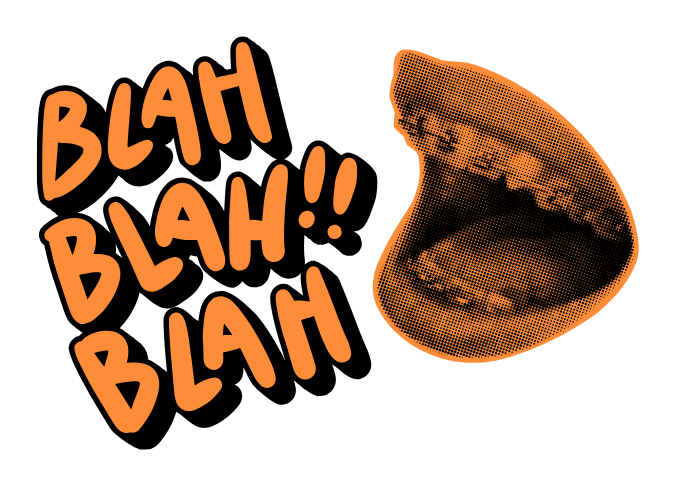
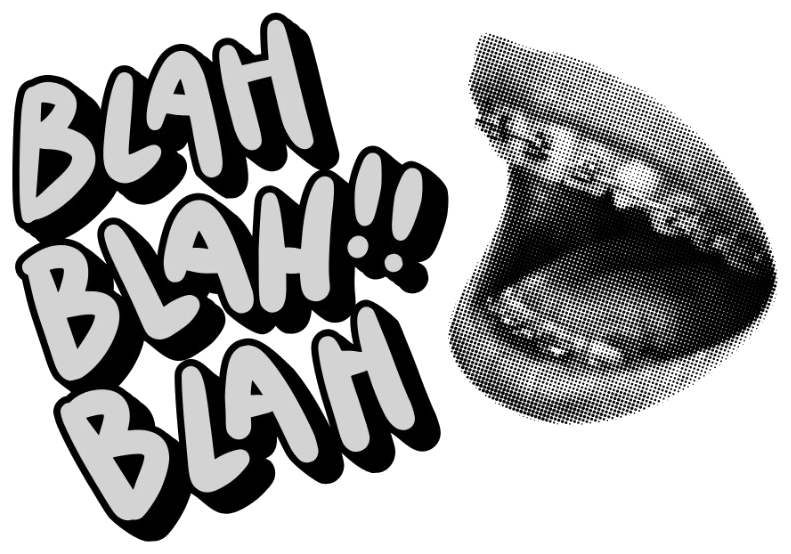
feat: allineamento layout e atmosfera visiva della homepage in base al riferimento di design

diff --git a/src/components/HomeHero.tsx b/src/components/HomeHero.tsx
@@ -8,7 +8,7 @@ const { cta, home } = siteContent;
 
 const titolo = home.titolo;
 const HERO_IMAGE = "/A.jpg";
-const HERO_BG = "#e85c12";
+const HERO_BG = "#111111";
 
 /** Pulsanti della Hero: più grandi solo da desktop (xl), invariati altrove. */
 const heroBtn = "w-full xl:px-12 xl:py-6 xl:text-sm xl:tracking-[0.2em] 2xl:px-14 2xl:py-7 2xl:text-base";
@@ -26,7 +26,7 @@ const riseIn: Variants = {
 };
 
 const spring = { type: "spring", stiffness: 280, damping: 22 } as const;
-const hoverGlow = { scale: 1.02, boxShadow: "0 0 24px rgba(249, 248, 246, 0.35)" };
+const hoverGlow = { scale: 1.02, boxShadow: "0 0 22px rgba(220, 220, 220, 0.22)" };
 const tapPress = { scale: 0.98 };
 
 /** Altezza sotto l’header fisso (`Layout`: pt-[80px] / xl:pt-[112px]). */
@@ -39,7 +39,7 @@ function HeroOrnament() {
       src="/linea-hero.svg"
       alt=""
       aria-hidden
-      className="mx-auto block h-[clamp(2.15rem,6.5vw,3.15rem)] w-auto max-w-[min(22rem,78%)] object-contain drop-shadow-[0_1px_10px_rgba(43,37,35,0.45)]"
+      className="mx-auto block h-[clamp(2.15rem,6.5vw,3.15rem)] w-auto max-w-[min(22rem,78%)] object-contain drop-shadow-[0_2px_8px_rgba(0,0,0,0.45)]"
     />
   );
 }
@@ -56,45 +56,48 @@ export function HomeHero() {
   return (
     <section
       data-home-hero
-      className="relative isolate overflow-hidden bg-ember text-black [--hh:80px] xl:[--hh:112px]"
+      className="relative isolate overflow-hidden bg-[#111111] text-on-ink [--hh:80px] xl:[--hh:112px]"
     >
       <motion.div
         className="absolute inset-x-0 -top-[18%] z-0 h-[140%] will-change-transform"
         style={reduce ? undefined : { y: bgY }}
         aria-hidden
       >
-        <ChromaticImage
-          src={HERO_IMAGE}
-          alt=""
-          backgroundColor={HERO_BG}
-          zoom={0.1}
-          displacement={0.03}
-          chromaticShift={0.012}
-          tilt={0.12}
-          className="h-full w-full"
-        />
+        <div className="hero-bronze-plate h-full w-full">
+          <ChromaticImage
+            src={HERO_IMAGE}
+            alt=""
+            backgroundColor={HERO_BG}
+            zoom={0.1}
+            displacement={0.03}
+            chromaticShift={0.012}
+            tilt={0.12}
+            className="h-full w-full bg-[#111111]"
+          />
+        </div>
       </motion.div>
 
       <div
         aria-hidden
-        className="pointer-events-none absolute inset-0 z-[1] bg-[radial-gradient(ellipse_at_center,rgb(232_92_18_/_0.25)_0%,rgb(232_92_18_/_0.48)_43%,rgb(201_74_14_/_0.78)_100%)]"
+        className="pointer-events-none absolute inset-0 z-[1] bg-[radial-gradient(ellipse_at_center,rgb(17_17_17_/_0.08)_0%,rgb(17_17_17_/_0.18)_55%,rgb(8_8_8_/_0.48)_100%)]"
       />
       <div
         aria-hidden
-        className="pointer-events-none absolute inset-0 z-[1] bg-gradient-to-b from-ember/70 via-ember/38 to-ember-deep/74"
+        className="pointer-events-none absolute inset-0 z-[1] bg-gradient-to-b from-[#111111]/32 via-transparent to-[#080808]/52"
       />
 
       <div
         className="pointer-events-none relative z-10 flex items-start justify-center px-6 pb-[calc(8.5rem+env(safe-area-inset-bottom,0px))] pt-3 md:px-10 md:pb-40 md:pt-5"
         style={{ minHeight: FRAME_H }}
       >
-        <div className="home-hero-copy pointer-events-auto mx-auto flex w-full max-w-3xl flex-col items-center py-1 text-center text-white md:max-w-4xl md:py-2">
+        <div className="home-hero-copy pointer-events-auto mx-auto flex w-full max-w-3xl flex-col items-center py-1 text-center text-[#d8d8d8] md:max-w-4xl md:py-2">
           <BrandLogo
             tone="hero"
+            finish="metal"
             className="mx-auto h-[clamp(6.75rem,min(40vw,23svh),13.25rem)] w-[clamp(6.75rem,min(40vw,23svh),13.25rem)] max-w-full"
           />
 
-          <h1 className="mt-3 w-full font-h1 text-h1-home text-black [text-shadow:0_1px_18px_rgba(255,254,251,0.35)] md:mt-5">
+          <h1 className="mt-3 w-full font-h1 text-h1-home text-h1-metal md:mt-5">
             {titolo}
           </h1>
 
@@ -106,14 +109,14 @@ export function HomeHero() {
             >
               <motion.p
                 variants={riseIn}
-                className="mt-2 text-[0.6875rem] font-semibold uppercase tracking-[0.22em] text-white md:mt-3 md:text-xs xl:font-bold"
+                className="mt-2 text-[0.6875rem] font-semibold uppercase tracking-[0.22em] text-[#c8c8c8] md:mt-3 md:text-xs xl:font-bold"
               >
                 {home.copyright}
               </motion.p>
 
               <motion.p
                 variants={riseIn}
-                className="mt-2 font-display text-3xl font-normal leading-tight text-white [text-shadow:0_2px_22px_rgba(43,37,35,0.45)] md:mt-3 md:text-5xl xl:text-6xl xl:font-bold"
+                className="mt-2 font-display text-3xl font-normal leading-tight text-[#e8e8e8] [text-shadow:0_2px_18px_rgba(0,0,0,0.45)] md:mt-3 md:text-5xl xl:text-6xl xl:font-bold"
               >
                 {home.firma}
               </motion.p>
@@ -124,7 +127,7 @@ export function HomeHero() {
 
               <motion.p
                 variants={riseIn}
-                className="mt-4 font-display text-xl font-normal leading-snug text-white [text-shadow:0_1px_16px_rgba(43,37,35,0.4)] md:mt-5 md:text-2xl xl:text-3xl xl:font-bold"
+                className="mt-4 font-display text-xl font-normal leading-snug text-[#c8c8c8] [text-shadow:0_1px_14px_rgba(0,0,0,0.4)] md:mt-5 md:text-2xl xl:text-3xl xl:font-bold"
               >
                 {home.competenze}
               </motion.p>
@@ -155,7 +158,7 @@ export function HomeHero() {
                 whileTap={reduce ? undefined : tapPress}
                 transition={spring}
               >
-                <Button to="/percorsi" variant="paper" className={`${heroBtn} ring-1 ring-white/25`}>
+                <Button to="/percorsi" variant="paper" className={`${heroBtn} bg-white text-ink`}>
                   {cta.percorsi}
                 </Button>
               </motion.div>

diff --git a/src/components/Header.tsx b/src/components/Header.tsx
@@ -29,12 +29,12 @@ const NAV_CHILD =
 /** Visualizzazione estesa: solo grandi schermi, come da navbar definitiva. */
 const desktopLinkClass = (active: boolean) =>
   `whitespace-nowrap text-[0.6875rem] font-bold uppercase tracking-[0.16em] transition-colors ${
-    active ? "text-ember" : "text-ember/80 hover:text-ember"
+    active ? "text-white" : "text-white/80 hover:text-white"
   }`;
 
-/** Icone della barra: ember, più grandi, coerenti. */
+/** Icone della barra: rame, più grandi, coerenti. */
 const NAV_ICON_CORE =
-  "flex h-12 shrink-0 items-center justify-center text-ember transition-colors hover:text-ember-hot [&_svg]:h-[1.625rem] [&_svg]:w-[1.625rem] [&_svg]:stroke-[2.25]";
+  "flex h-12 shrink-0 items-center justify-center text-white transition-colors hover:text-white/80 [&_svg]:h-[1.625rem] [&_svg]:w-[1.625rem] [&_svg]:stroke-[2.25]";
 const NAV_ICON_BTN = `${NAV_ICON_CORE} w-12`;
 const NAV_ICON_LEFT = `${NAV_ICON_CORE} w-9`;
 
@@ -66,10 +66,10 @@ export function Header() {
   return (
     <>
       <div
-        className="pointer-events-none fixed inset-x-0 top-0 z-[51] h-[env(safe-area-inset-top,0px)] bg-ink"
+        className="pointer-events-none fixed inset-x-0 top-0 z-[51] h-[env(safe-area-inset-top,0px)] bg-[#0e0e0e]"
         aria-hidden
       />
-      <header className="site-chrome fixed inset-x-0 top-0 z-50 border-b border-white/10 bg-ink">
+      <header className="site-chrome nav-bronze fixed inset-x-0 top-0 z-50 border-b">
         <nav
           className="mx-auto hidden h-[108px] w-full grid-cols-[1fr_auto_1fr] items-center gap-x-8 px-8 2xl:px-16 xl:grid"
           aria-label="Principale"
@@ -86,8 +86,8 @@ export function Header() {
             aria-label={brand.wordmark}
             translate="no"
           >
-            <BrandLogo className="h-[52px] w-[52px]" />
-            <span className="mt-1 font-h1 text-[1.85rem] leading-none text-ember xl:text-[2.05rem]">
+            <BrandLogo finish="metal" className="h-[52px] w-[52px]" />
+            <span className="mt-1 font-h1 text-[1.85rem] leading-none text-[#d8d8d8] xl:text-[2.05rem]">
               {brand.wordmark}
             </span>
           </NavLink>
@@ -118,7 +118,7 @@ export function Header() {
             className="absolute left-1/2 top-1/2 z-[1] -translate-x-1/2 -translate-y-1/2"
             aria-label={brand.wordmark}
           >
-            <BrandLogo className="h-[68px] w-[68px]" />
+            <BrandLogo finish="metal" className="h-[68px] w-[68px]" />
           </NavLink>
           <div className="relative z-10 flex items-center">
             <AccountLink className={NAV_ICON_BTN} />

diff --git a/src/index.css b/src/index.css
@@ -29,7 +29,7 @@
   html {
     scroll-behavior: smooth;
     overflow-x: hidden;
-    background-color: #e85c12;
+    background-color: #111111;
   }
 
   html.translated-ltr,
@@ -118,13 +118,53 @@
 }
 
 @utility logo-flush-hero {
-  transform: scale(1.12);
+  transform: scale(1.18);
   transform-origin: center;
 }
 
-/* Anello bianco sottilissimo: stacco del sigillo sulle hero. */
+/* Distacco 2px: ombra, non un secondo anello bianco (l’anello è p-[3px] su BrandLogo). */
 @utility logo-hero-ring {
-  box-shadow: 0 0 0 2px rgb(255 255 255 / 0.92);
+  box-shadow: 0 2px 2px rgb(43 37 35 / 0.32);
+}
+
+/* Distacco del medaglione fotografico sulle superfici scure. */
+@utility logo-medallion {
+  box-shadow:
+    0 2px 2px rgb(0 0 0 / 0.45),
+    0 10px 24px rgb(0 0 0 / 0.4);
+}
+
+/* Titolo Hero: argento cromato, rilievo metallico. */
+@utility text-h1-metal {
+  color: #d4d4d4;
+  background-image: linear-gradient(
+    180deg,
+    #ffffff 0%,
+    #e8e8e8 20%,
+    #c0c0c0 46%,
+    #7a7a7a 72%,
+    #d8d8d8 100%
+  );
+  -webkit-background-clip: text;
+  background-clip: text;
+  -webkit-text-fill-color: transparent;
+  filter:
+    drop-shadow(0 2px 0 rgb(16 16 16 / 0.6))
+    drop-shadow(0 8px 16px rgb(0 0 0 / 0.42));
+}
+
+/* Navbar: lamina carbone. */
+@utility nav-bronze {
+  background-image: linear-gradient(180deg, #2c2c2c 0%, #161616 48%, #0e0e0e 100%);
+  border-bottom-color: rgb(255 255 255 / 0.08);
+}
+
+/* Lastre della Hero: A.jpg in scala di grigi. */
+@utility hero-bronze-plate {
+  display: block;
+  height: 100%;
+  width: 100%;
+  filter: grayscale(1) brightness(0.82) contrast(1.12);
 }
 
 /* H1 pagine interne: ampia su smartphone, a capo naturale. */
@@ -146,7 +186,7 @@
   max-width: 100%;
   white-space: nowrap;
   line-height: 1.05;
-  font-size: clamp(2.15rem, calc(100cqi / 3.42), 11.5rem);
+  font-size: clamp(2.65rem, calc(100cqi / 3.32), 12.5rem);
 }
 
 /* Blagkine non ha il corsivo: niente obliquo sintetico nei titoli H1 */
@@ -390,7 +430,6 @@ html[data-a11y-spacing="on"] :where(h2, h3, h4, h5, h6) {
 /* Area notch: padding. Il colore nativo resta a theme-color / manifest. */
 .site-chrome {
   padding-top: env(safe-area-inset-top, 0px);
-  background-color: #2b2523;
 }
 
 /* Barra contatti: illustrazione a sfondo, icone in sfere. */

diff --git a/src/components/BrandLogo.tsx b/src/components/BrandLogo.tsx
@@ -3,32 +3,35 @@ import { siteContent } from "../data/siteContent";
 const { brand } = siteContent;
 
 export type BrandLogoTone = "mark" | "hero";
+export type BrandLogoFinish = "ivory" | "metal";
 
 type Props = {
   className?: string;
   tone?: BrandLogoTone;
+  finish?: BrandLogoFinish;
 };
 
-/** Sigillo in sfera bianca: anello 2px in navbar e nella Hero. */
-export function BrandLogo({ className = "", tone = "mark" }: Props) {
+/** Medaglione ufficiale. Finish metal: ombra di distacco sulle superfici scure. */
+export function BrandLogo({ className = "", tone = "mark", finish = "ivory" }: Props) {
   const src = tone === "hero" ? brand.logoHero : brand.logo;
   const hero = tone === "hero";
+  const metal = finish === "metal";
   return (
     <span
-      className={`flex aspect-square shrink-0 items-center justify-center overflow-hidden rounded-full bg-white p-[2px] ${className}`.trim()}
+      className={`flex aspect-square shrink-0 items-center justify-center overflow-hidden rounded-full ${
+        metal ? "logo-medallion" : ""
+      } ${className}`.trim()}
     >
-      <span className="flex h-full w-full overflow-hidden rounded-full">
-        <img
-          src={src}
-          alt=""
-          width={hero ? 288 : 48}
-          height={hero ? 288 : 48}
-          decoding={hero ? "sync" : "async"}
-          fetchPriority={hero ? "high" : "auto"}
-          loading={hero ? "eager" : "lazy"}
-          className={`${hero ? "logo-flush-hero" : "logo-flush"} h-full w-full rounded-full object-cover`}
-        />
-      </span>
+      <img
+        src={src}
+        alt=""
+        width={hero ? 288 : 48}
+        height={hero ? 288 : 48}
+        decoding={hero ? "sync" : "async"}
+        fetchPriority={hero ? "high" : "auto"}
+        loading={hero ? "eager" : "lazy"}
+        className="h-full w-full rounded-full object-cover"
+      />
     </span>
   );
 }

diff --git a/src/components/TarotChat.tsx b/src/components/TarotChat.tsx
@@ -85,7 +85,7 @@ export function TarotChat() {
     <>
       <button
         type="button"
-        className="chat-icon-row fixed bottom-[calc(5.75rem+env(safe-area-inset-bottom))] right-3 z-[45] flex h-[4.25rem] w-[5.9rem] items-center justify-center bg-transparent p-0 transition-opacity hover:opacity-85 focus-visible:outline focus-visible:outline-2 focus-visible:outline-offset-2 focus-visible:outline-ember sm:right-4 md:bottom-[calc(6.5rem+env(safe-area-inset-bottom))] md:h-[4.5rem] md:w-[6.25rem]"
+        className="chat-icon-row fixed bottom-[calc(5.75rem+env(safe-area-inset-bottom))] right-3 z-[45] flex h-[5.5rem] w-[6.75rem] items-center justify-center bg-transparent p-0 transition-opacity hover:opacity-85 focus-visible:outline focus-visible:outline-2 focus-visible:outline-offset-2 focus-visible:outline-ember sm:right-4 md:bottom-[calc(6.5rem+env(safe-area-inset-bottom))] md:h-[6rem] md:w-[7.5rem]"
         data-paused={open ? "true" : undefined}
         aria-label={copy.trigger}
         aria-haspopup="dialog"
@@ -210,11 +210,11 @@ function ChatIcon() {
     <img
       src="/chat-icon.png"
       alt=""
-      width={96}
-      height={69}
+      width={256}
+      height={180}
       draggable={false}
       aria-hidden="true"
-      className="h-full w-full object-contain"
+      className="h-full w-full object-contain drop-shadow-[0_2px_8px_rgba(0,0,0,0.45)]"
     />
   );
 }

diff --git a/src/components/LanguageWidget.tsx b/src/components/LanguageWidget.tsx
@@ -68,7 +68,7 @@ export function LanguageWidget({ placement, className = "" }: Props) {
         type="button"
         className={
           compact
-            ? `flex h-12 ${className || "w-12"} shrink-0 items-center justify-center text-ember transition-colors hover:text-ember-hot`
+            ? `flex h-12 ${className || "w-12"} shrink-0 items-center justify-center text-white transition-colors hover:text-white/80`
             : drawer
               ? "flex w-full items-center justify-center gap-3 py-4 text-center font-body text-[0.8125rem] font-medium uppercase not-italic leading-none tracking-[0.16em] text-ink/55 hover:text-ink"
               : "inline-flex items-center gap-2 uppercase tracking-[0.16em] hover:text-white"

diff --git a/src/components/PageBanner.tsx b/src/components/PageBanner.tsx
@@ -63,9 +63,7 @@ export function PageBanner({ title, subtitle, background, className = "" }: Prop
       >
         <BrandLogo
           tone={onMedia ? "hero" : "mark"}
-          className={`logo-hero-ring h-[5.5rem] w-[5.5rem] md:h-[6.75rem] md:w-[6.75rem] ${
-            onMedia ? "drop-shadow-[0_0_28px_rgba(255,254,251,0.85)]" : ""
-          }`.trim()}
+          className="logo-hero-ring h-[5.5rem] w-[5.5rem] md:h-[6.75rem] md:w-[6.75rem]"
         />
         <h1 className={`mt-8 font-h1 text-h1 md:mt-10 ${onMedia ? "text-white [text-shadow:0_2px_28px_rgba(43,37,35,0.55)]" : "text-ink"}`}>
           {title}

diff --git a/src/data/siteContent.ts b/src/data/siteContent.ts
@@ -6,8 +6,8 @@ export const siteContent = {
   brand: {
     name: "Tarot Italia",
     wordmark: "Tarot Italia",
-    logo: "/logo.png",
-    logoHero: "/logo-hero.png",
+    logo: "/logo-medallion.webp",
+    logoHero: "/logo-medallion.webp",
     titolare: "Maria Teresa Rogani",
     ruolo: "Operatrice olistica ed esoterica, cartomante e tarologa professionista",
     sottotitolo: sottotitoloBrand,
